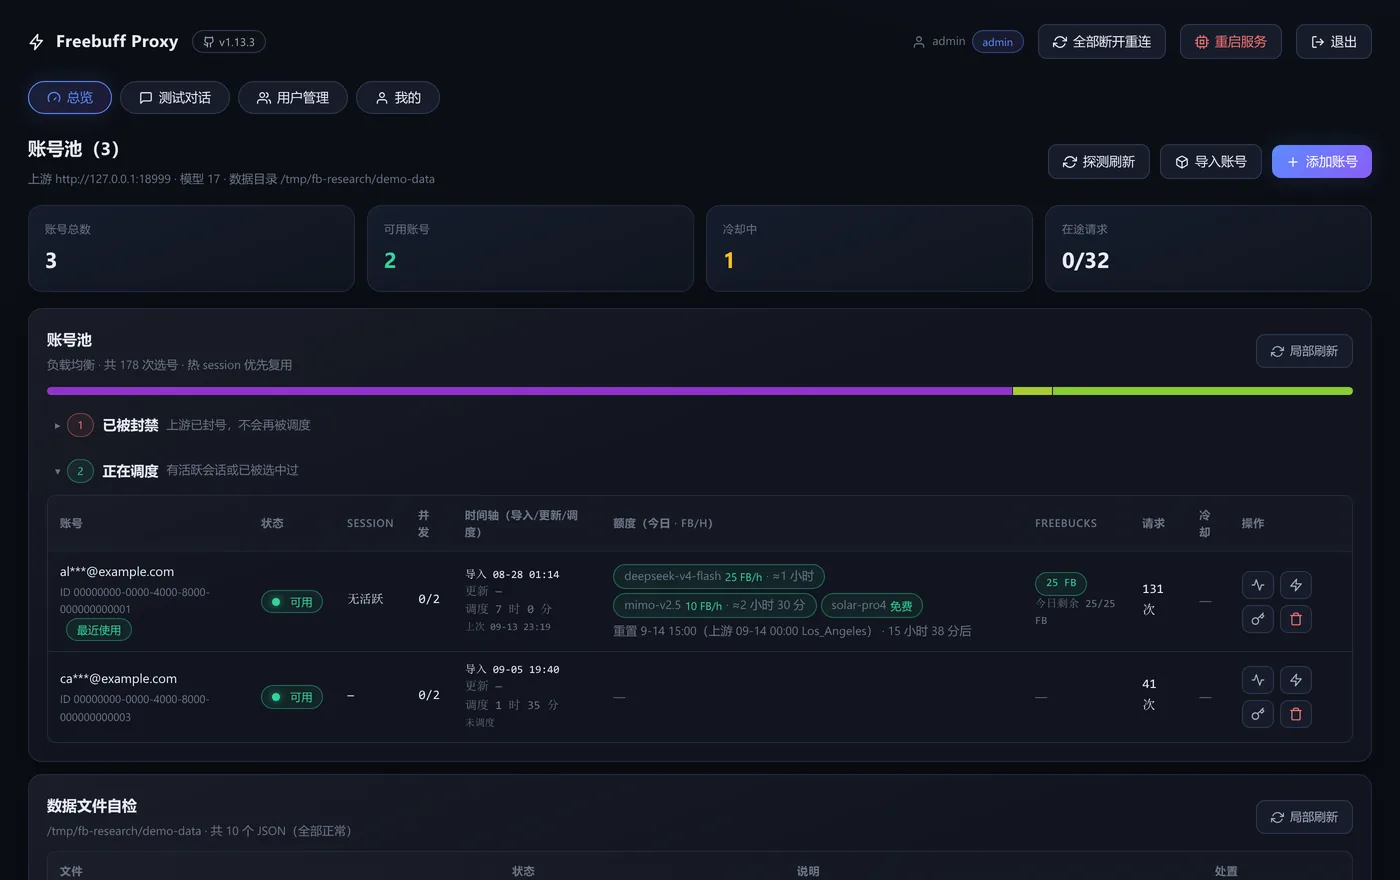
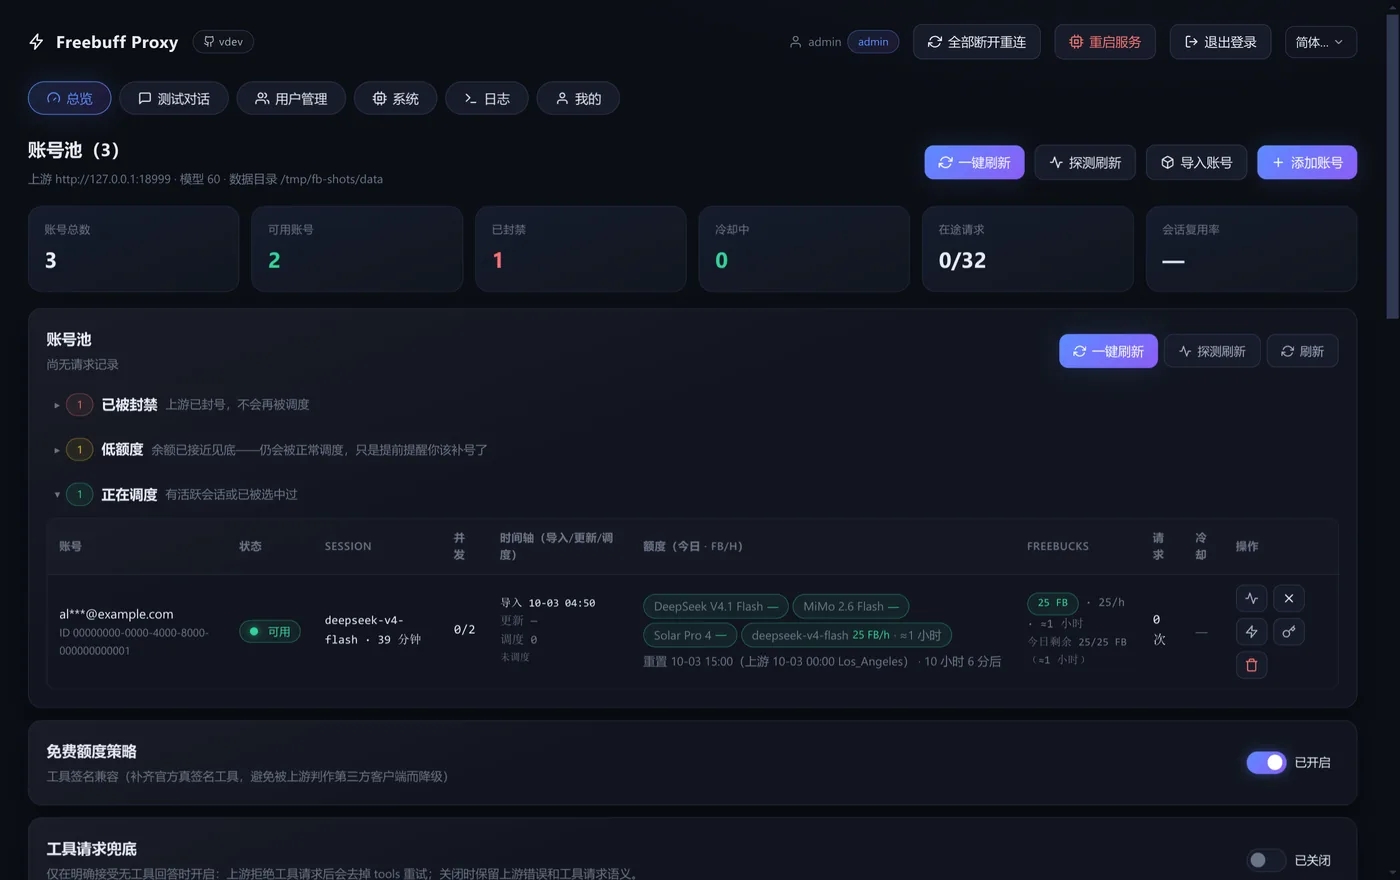
docs: 重生成截图（额度列显示模型名）+ 精简 README
截图：用 mock 上游 + 无头 Chromium 重新生成四张，覆盖旧图。
给 mock 补了目录端点（/api/v1/freebuff/models，rows 含 displayName
与 legacyDigests），并把额度键改成目录 key（m-xxx）—— 与真实上游回执
同口径，这样截图才能体现「额度列显示模型名而非裸 key」的修复。
验证：页面文本含 DeepSeek V4.1 Flash / MiMo 2.6 Flash / Solar Pro 4。

README：263 → 175 行，去掉重复与冗余说明，统一口径
（计费那段原先与「限制」段对提前 DELETE 的说法自相矛盾）。
结构收敛为：简介 → 截图 → 快速开始 → 上游链路 → 计费额度 →
限制 → 接入 → 文档 → 说明。

diff --git a/.agents/notes/NOTE-EXEMPT.md b/.agents/notes/NOTE-EXEMPT.md
@@ -1,1 +1,13 @@
-note-exempt: 临时修改用于逆向分析官方客户端协议，完成后会添加完整的 agent note
+note-exempt: 修改 `scripts/screenshot-mock-upstream.mjs` 用于重生成 README 截图。
+
+它不是产品运行时代码：只在本地起一个假上游（mock），给截图脚本喂数据，
+不参与真实请求链路、不影响运行行为、没有对外契约。
+
+具体改动：给它补了 `/api/v1/freebuff/models` 目录端点（rows 含 displayName
+与 legacyDigests），并把额度键改成目录 key（m-xxx）—— 目的是让**截图**能体现
+「总览额度列显示模型名而非裸 key」这个修复。改的是演示数据形态，不是协议实现
+（真实协议实现在 cli-bridge/ 与 src/upstream/，均已另有 note 覆盖）。
+
+同类先例：截图产物（docs/images）与生成脚本历来不写 note。
+MSG
+git add -A && git commit -q -F /tmp/mm.txt && git log --oneline -1 && git status --porcelain; echo "(clean)"
